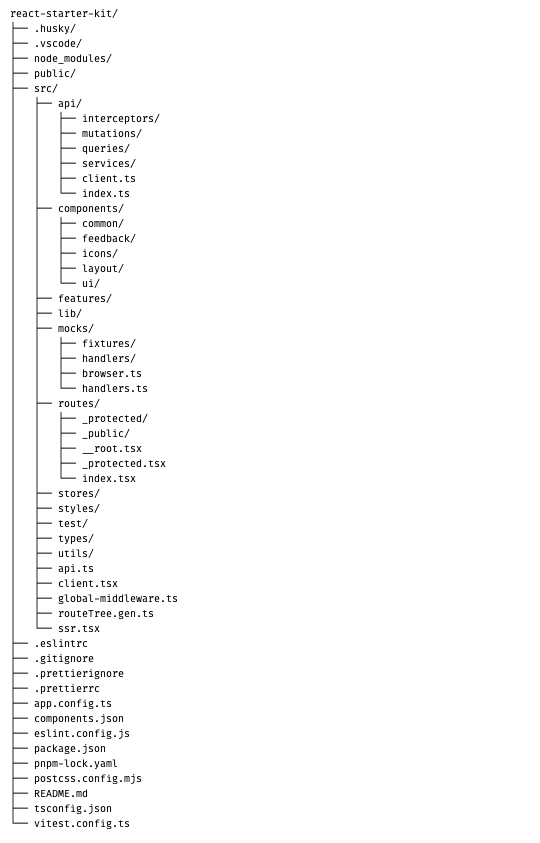
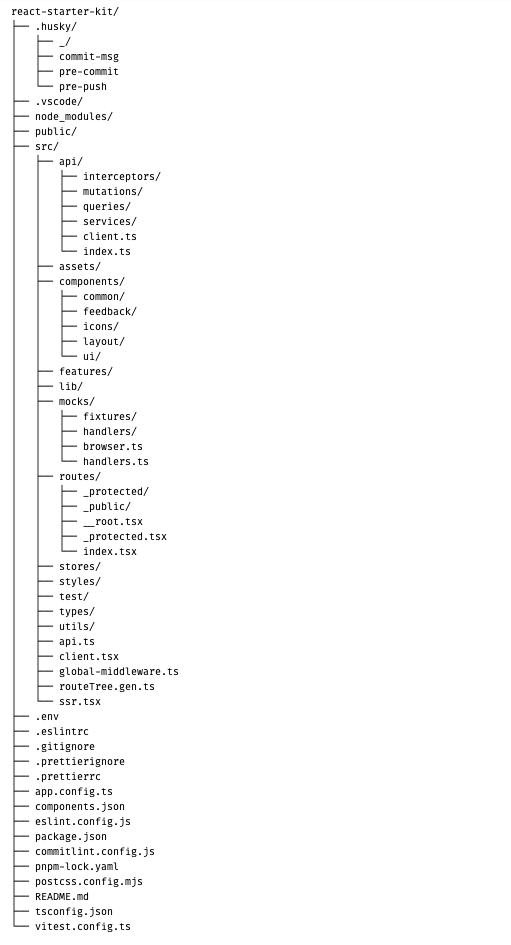
docs: updated readme file and added commit-msg file in husky folder

Changed region(s): [[0.0, 0.0, 0.3229, 0.987]]

diff --git a/README.md b/README.md
@@ -80,8 +80,15 @@ pnpm test
 
 >
 
-- `.husky/` : Git hooks directory used to automate tasks like running linters or tests before commits or pushes (e.g., `pre-commit`, `pre-push`)
+- `.husky/` : Git hooks directory used to automate tasks like running linters or tests before commits or pushes.
+  - `pre-commit` – Runs `lint-staged` to auto-format and lint staged files.
+  - `pre-push` – Executes tests (`pnpm test`) to ensure code quality before pushing.
+  - `commit-msg` – Validates commit message format using Commitlint to enforce conventional commits.
+  - `_/` – Internal Husky scripts (auto-managed by Husky, do not edit manually).
 - `.vscode/` : Project-specific settings and extensions
+
+  - `settings.json` – Configures formatters, disables search/watch for generated files like `routeTree.gen.ts`, and enforces consistent dev environment.
+  - `extensions.json` – Recommends VS Code extensions like ESLint, Prettier, and Tailwind IntelliSense for collaborators.
 
 ## `src/` - Main Application Code
 
@@ -152,3 +159,7 @@ pnpm test
 #### 📁 `utils/`
 
 - General utility functions and helpers
+
+---
+
+### Key Design Decisions
